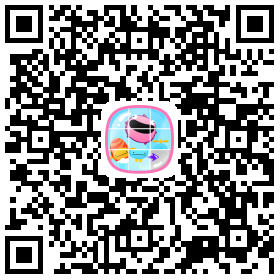
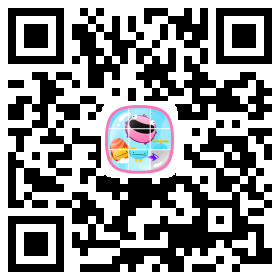
更新appstore地址

diff --git a/index.html b/index.html
@@ -16,7 +16,7 @@
       <table style="margin-left: auto; margin-right: auto">
         <tbody>
           <tr>
-            <td style="padding: 20px;"><a href="https://itunes.apple.com/us/app/pin-tu-jing-dian-ban/id1111220755?l=zh&ls=1&mt=8" class="btn">View on AppStore</a></td>
+            <td style="padding: 20px;"><a href="https://appsto.re/cn/ti-ocb.i" class="btn">View on AppStore</a></td>
             <td style="padding: 20px;"><img src="images/erweima.png" alt="" style="width:100px; height:100px"/></td>
           </tr>
         </tbody>
